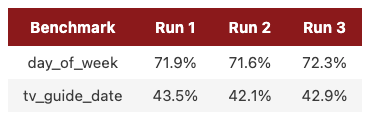
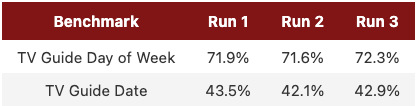
minor changes to blog

diff --git a/docs/blog/posts/llm_evals.md b/docs/blog/posts/llm_evals.md
@@ -1,6 +1,6 @@
 ---
 date:
-  created: 2026-05-19
+  created: 2026-07-14
 categories:
     - LLM
 authors:
@@ -79,7 +79,7 @@ The prompt translates the task into explicit, machine-readable instructions. Pre
 <div markdown="1" style="border-left:.25rem solid #820000;background-color:#8200000a;padding:.25rem 1rem;margin:1.2em 0;border-radius:.1rem;">
 <span style="display:block;font-weight:700;color:#820000;font-size:.65rem;letter-spacing:.06em;text-transform:uppercase;margin-bottom:.3rem;">In our pipeline</span>
 
-> Analyze the provided image of a TV schedule grid from a newspaper. Each row represents one channel. The leftmost or rightmost area of each row contains the channel information. Extract the channel information from ONLY the first data row of the grid (the first row immediately after the time-slot or any other subsection headers).
+<code style="background:none; padding:0; box-shadow:none; font-size:inherit;">Analyze the provided image of a TV schedule grid from a newspaper. Each row represents one channel. The leftmost or rightmost area of each row contains the channel information. Extract the channel information from ONLY the first data row of the grid (the first row immediately after the time-slot or any other subsection headers).</code>
 </div>
 
 **Metric**
@@ -89,10 +89,10 @@ The metric defines what counts as a correct answer and measures how close an out
 <div markdown="1" style="border-left:.25rem solid #820000;background-color:#8200000a;padding:.25rem 1rem;margin:1.2em 0;border-radius:.1rem;">
 <span style="display:block;font-weight:700;color:#820000;font-size:.65rem;letter-spacing:.06em;text-transform:uppercase;margin-bottom:.3rem;">In our pipeline</span>
 
-Metric: Word IoU
+Word Intersection over Union (IoU): the fraction of words two strings share.
 </div>
 
-**Word IoU** (Intersection over Union) — the fraction of words two strings share — is a good choice for measuring how much they overlap. If the LLM outputs "Food Channel" but the ground truth is "Food Network", the Word IoU score is 0.33: the two strings share one word ("Food") out of three unique words total ("Food", "Channel", "Network").
+When both the output and the ground truth are short phrases, Word IoU is a good choice for measuring how much they overlap. If the LLM outputs "Food Channel" but the ground truth is "Food Network", the Word IoU score is 0.33: the two strings share one word ("Food") out of three unique words total ("Food", "Channel", "Network").
 
 **The Feedback Loop**
 
@@ -118,7 +118,7 @@ Our initial project pipeline scaled quickly (18 models, 35 images, 6 benchmarks)
   <figcaption>The end-to-end evaluation pipeline used in our project.</figcaption>
 </figure>
 
-After configuring our inputs (benchmarks, models, and images) and converting PDFs to greyscale PNGs, we accessed models through the [Stanford AI API Gateway](https://rcpedia.stanford.edu/blog/2026/03/06/stanfords-llm-api-tools/){target="_blank"}. Stanford provides access through a Stanford-managed environment with vendor agreements covering data use, retention, and model training; data is not used to train vendor models. The Stanford AI API Gateway allowed us to get outputs from models without the need for a web interface.
+After configuring our inputs (benchmarks, models, and images) and converting PDFs to grayscale PNGs, we accessed models through the [Stanford AI API Gateway](https://rcpedia.stanford.edu/blog/2026/03/06/stanfords-llm-api-tools/){target="_blank"}. Stanford provides access through a Stanford-managed environment with vendor agreements covering data use, retention, and model training; data is not used to train vendor models. The Stanford AI API Gateway allowed us to get outputs from models without the need for a web interface.
 
 !!! note "Stanford AI API Gateway"
     Models are continuously deprecated and added to the Gateway. You must reapply for a new key each time the list of available models changes in order to keep your access up to date.
@@ -226,7 +226,7 @@ We adjusted our prompt several times to see if we could get better results. You 
 === "First Program v1"
     **Short, one sentence prompt.**
 
-    > Return the name of the program for the first channel listed and for the earliest time slot shown.
+    <code style="background:none; padding:0; box-shadow:none; font-size:inherit;">Return the name of the program for the first channel listed and for the earliest time slot shown.</code>
 
     <figure markdown>
       ![Average first_program score per model using Prompt v1](../../assets/images/llm_eval_first_program.png){ width="700" }
@@ -235,7 +235,7 @@ We adjusted our prompt several times to see if we could get better results. You 
 === "First Program v2"
     **Added explicit grid structure and step-by-step navigation instructions.**
 
-    > Analyze the provided image of a TV schedule grid. Channels are typically listed vertically (rows) and time slots horizontally (columns). Your task is to extract the program title for the FIRST channel listed at the EARLIEST time slot shown. Follow these steps carefully: 1. Scan the grid to identify the top-most row containing programming data (the row immediately below the time-slot or any other subsection headers). 2. Scan to the left-most time block within that specific row. 3. Identify the text inside this top-leftmost program block. 4. Transcribe the text exactly as printed. Include all numbers (e.g., episode numbers, parts, movie years), abbreviations, and characters that appear immediately with the title.
+    <code style="background:none; padding:0; box-shadow:none; font-size:inherit;">Analyze the provided image of a TV schedule grid. Channels are typically listed vertically (rows) and time slots horizontally (columns). Your task is to extract the program title for the FIRST channel listed at the EARLIEST time slot shown. Follow these steps carefully: 1. Scan the grid to identify the top-most row containing programming data (the row immediately below the time-slot or any other subsection headers). 2. Scan to the left-most time block within that specific row. 3. Identify the text inside this top-leftmost program block. 4. Transcribe the text exactly as printed. Include all numbers (e.g., episode numbers, parts, movie years), abbreviations, and characters that appear immediately with the title.</code>
 
     <figure markdown>
       ![Average first_program score per model using Prompt v2](../../assets/images/llm_eval_first_program_2.png){ width="700" }
@@ -244,7 +244,7 @@ We adjusted our prompt several times to see if we could get better results. You 
 === "First Program v3"
     **Narrowed the output to the title only, filtering out metadata like captions and codes.**
 
-    > Analyze the provided image of a TV schedule grid. Channels are typically listed vertically (rows) and time slots horizontally (columns). Your task is to extract the program title for the FIRST channel listed at the EARLIEST time slot shown. Follow these steps carefully: 1. Scan the grid to identify the top-most row containing programming data (the row immediately below the time-slot or any other subsection headers). 2. Scan to the left-most time block within that specific row. 3. Identify the text inside this top-leftmost program block. 4. Return only the title, ignore all closed captioning markers, rerun indicators, movie release years, or VCR Plus+ codes (numeric sequences) that appear immediately with the title.
+    <code style="background:none; padding:0; box-shadow:none; font-size:inherit;">Analyze the provided image of a TV schedule grid. Channels are typically listed vertically (rows) and time slots horizontally (columns). Your task is to extract the program title for the FIRST channel listed at the EARLIEST time slot shown. Follow these steps carefully: 1. Scan the grid to identify the top-most row containing programming data (the row immediately below the time-slot or any other subsection headers). 2. Scan to the left-most time block within that specific row. 3. Identify the text inside this top-leftmost program block. 4. Return only the title, ignore all closed captioning markers, rerun indicators, movie release years, or VCR Plus+ codes (numeric sequences) that appear immediately with the title.</code>
 
     <figure markdown>
       ![Average first_program score per model using Prompt v3](../../assets/images/llm_eval_first_program_3.png){ width="700" }
@@ -253,9 +253,9 @@ We adjusted our prompt several times to see if we could get better results. You 
 
 ### How Models Behave When Uncertain
 
-All models were given the same system prompt for first_program_2 and first_program_3:
+All models were given the same system prompt for First Program v2 and First Program v3:
 
-> "You are a precise OCR assistant specialized in extracting structured data from historical American newspaper TV guide grids. These are dense, low-resolution scans with small fonts, abbreviations, and tightly packed columns. Extract only text that is visibly present. Never guess, infer, or autocomplete. If a specific piece of information is illegible or missing, return null."
+<code style="background:none; padding:0; box-shadow:none; font-size:inherit;">You are a precise OCR assistant specialized in extracting structured data from historical American newspaper TV guide grids. These are dense, low-resolution scans with small fonts, abbreviations, and tightly packed columns. Extract only text that is visibly present. Never guess, infer, or autocomplete. If a specific piece of information is illegible or missing, return null.</code>
 
 Under fuzzy matching (scoring partial overlap rather than requiring an exact match), even a hallucination produces some character overlap and scores above zero — so an exact 0% means the model returned null rather than any answer at all. That is exactly what happened with gpt-5 and gpt-5-mini.
 
@@ -264,7 +264,7 @@ According to the [GPT-5 system card](https://arxiv.org/html/2601.03267v1){target
 Some of the other models behaved differently: once they hit the same uncertainty threshold (poor resolution, small font), they guessed anyway rather than abstaining. Those guesses produced hallucinated answers, which is what drove their accuracy down.
 
 <figure markdown>
-  ![Example model outputs for image #19 with ground truth "Politically"](../../assets/images/llm_eval_example_outputs.png)
+  ![Example model outputs for image #19 with ground truth "Politically"](../../assets/images/llm_eval_example_outputs.png){ width="675" }
   <figcaption>Example model outputs for image #19 (first program ground truth: "Politically"). GPT-5 abstains while some other models hallucinated.</figcaption>
 </figure>
 
@@ -277,11 +277,11 @@ Some of the other models behaved differently: once they hit the same uncertainty
       <figcaption>Average accuracy by benchmark across all models and images.</figcaption>
     </figure>
 
-    Our best performing benchmarks were easy metadata tasks like newspaper name and newspaper date, which scored 99% and 95% respectively. 
+    Our best performing benchmarks were easy metadata tasks like newspaper name and newspaper date, which scored 99% and 95% respectively.
 
     The worst performing benchmark was TV Guide Date with an overall score of 42.7%. Low scores were indicative of vague prompting and additional complexity from reasoning compared to other data extraction benchmarks.
 
-    We added additional benchmarks "all times" and "all channels" to evaluate how well the models did on extracting larger arrays of information.
+    We added benchmarks "all times" and "all channels" to evaluate how well the models did on extracting larger arrays of information.
 
 
 === "Average Accuracy by Model"
@@ -300,7 +300,7 @@ Some of the other models behaved differently: once they hit the same uncertainty
 
 <figure markdown>
   ![Accuracy rate for benchmarks across runs](../../assets/images/llm_eval_variability.png){ width="500" }
-  <figcaption>Variability across runs for Day of Week and TV Guide Date (all models and images).</figcaption>
+  <figcaption>Variability across runs for TV Guide Day of Week and TV Guide Date (all models and images).</figcaption>
 </figure>
 
 Temperature is a setting that controls how much randomness a model introduces when generating its response: higher values produce more varied output, while `temperature=0` makes it as predictable as the model allows. We set it to 0 for all models so that, in principle, the same prompt on the same image should produce the same output every time. Even after doing so, however, we noticed variation in outputs which was reflected in the accuracy rate per run. To account for this we would recommend running the same task multiple times and taking the average of the metrics.
@@ -325,7 +325,7 @@ Running the entire evaluation pipeline multiple times (approx. 11,100 tasks) cos
 
 Context window limits are another factor to watch. A model's context limit bounds both its input (system prompts, user prompts, and images) and its output. Input limits range widely, from 95K (gpt-4.1) to 1M tokens (gemini-2.5-pro). They also depend on how a model is served: our 95K figure for gpt-4.1 reflects its Azure deployment via the Gateway, not the model's native window. And because these limits shift as models update, it's worth checking the latest figures before running your pipeline.
 
-Some of our original color PNGs exceeded these limits, so we converted them to greyscale to shrink their input size and test more models on each image. Preprocessing like this (adjusting color scale or resolution) helps when you hit context limits, but it can also make inputs harder for models to parse accurately.
+Some of our original color PNGs exceeded these limits, so we converted them to grayscale to shrink their input size and test more models on each image. Preprocessing like this (adjusting color scale or resolution) helps when you hit context limits, but it can also make inputs harder for models to parse accurately.
 
 Output limits weren't an issue for us, since our largest outputs were short arrays of strings. If you need models to produce more than that, keep those limits in mind too.
 
